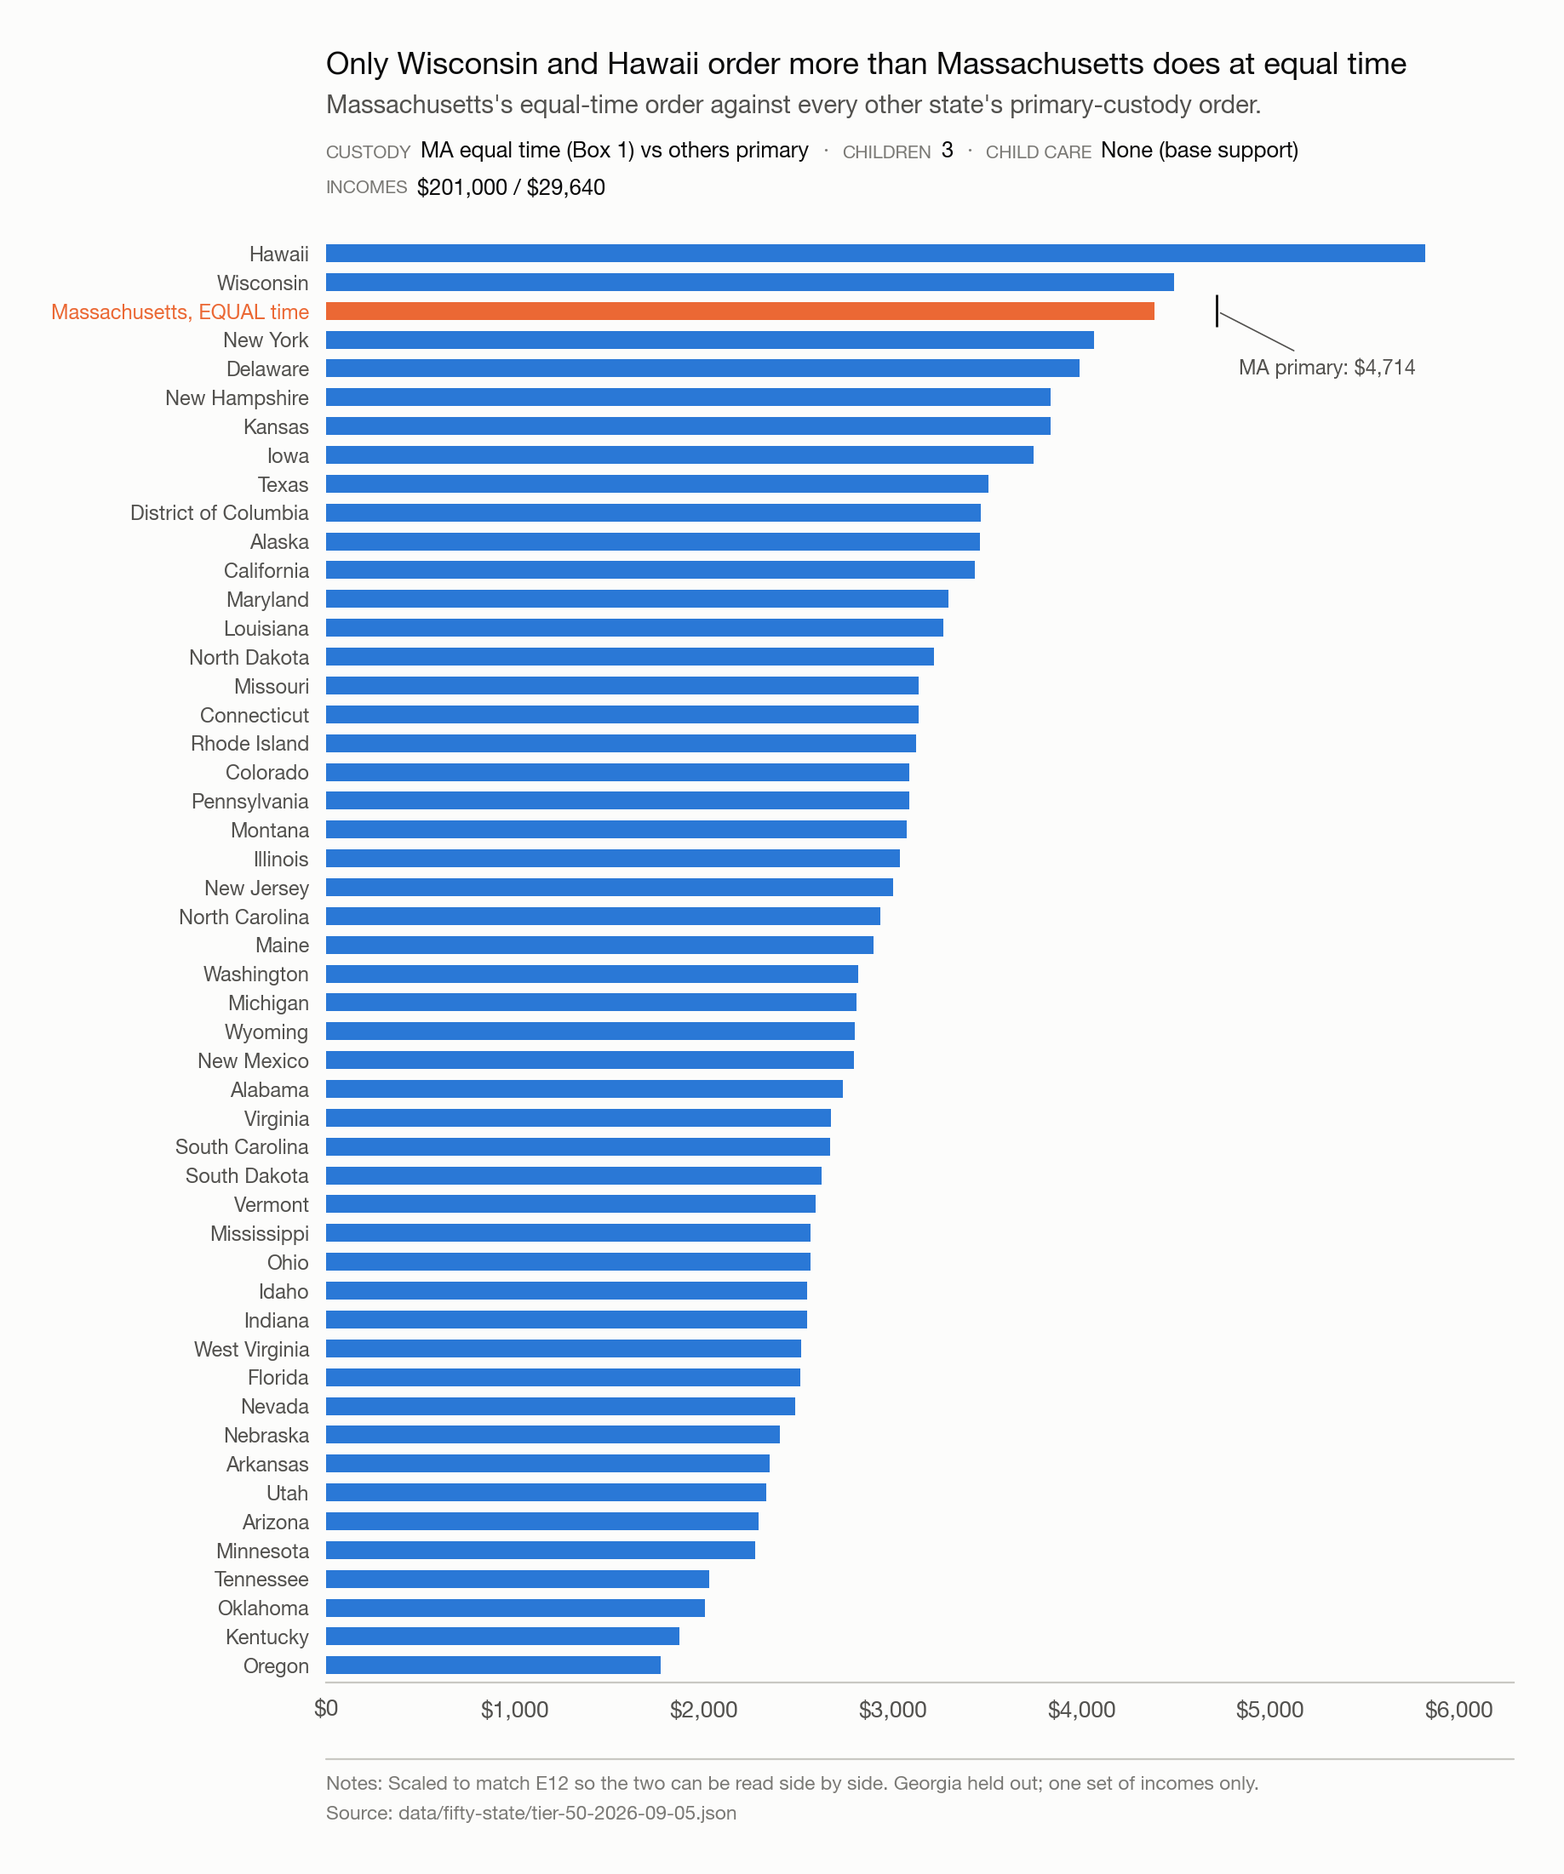
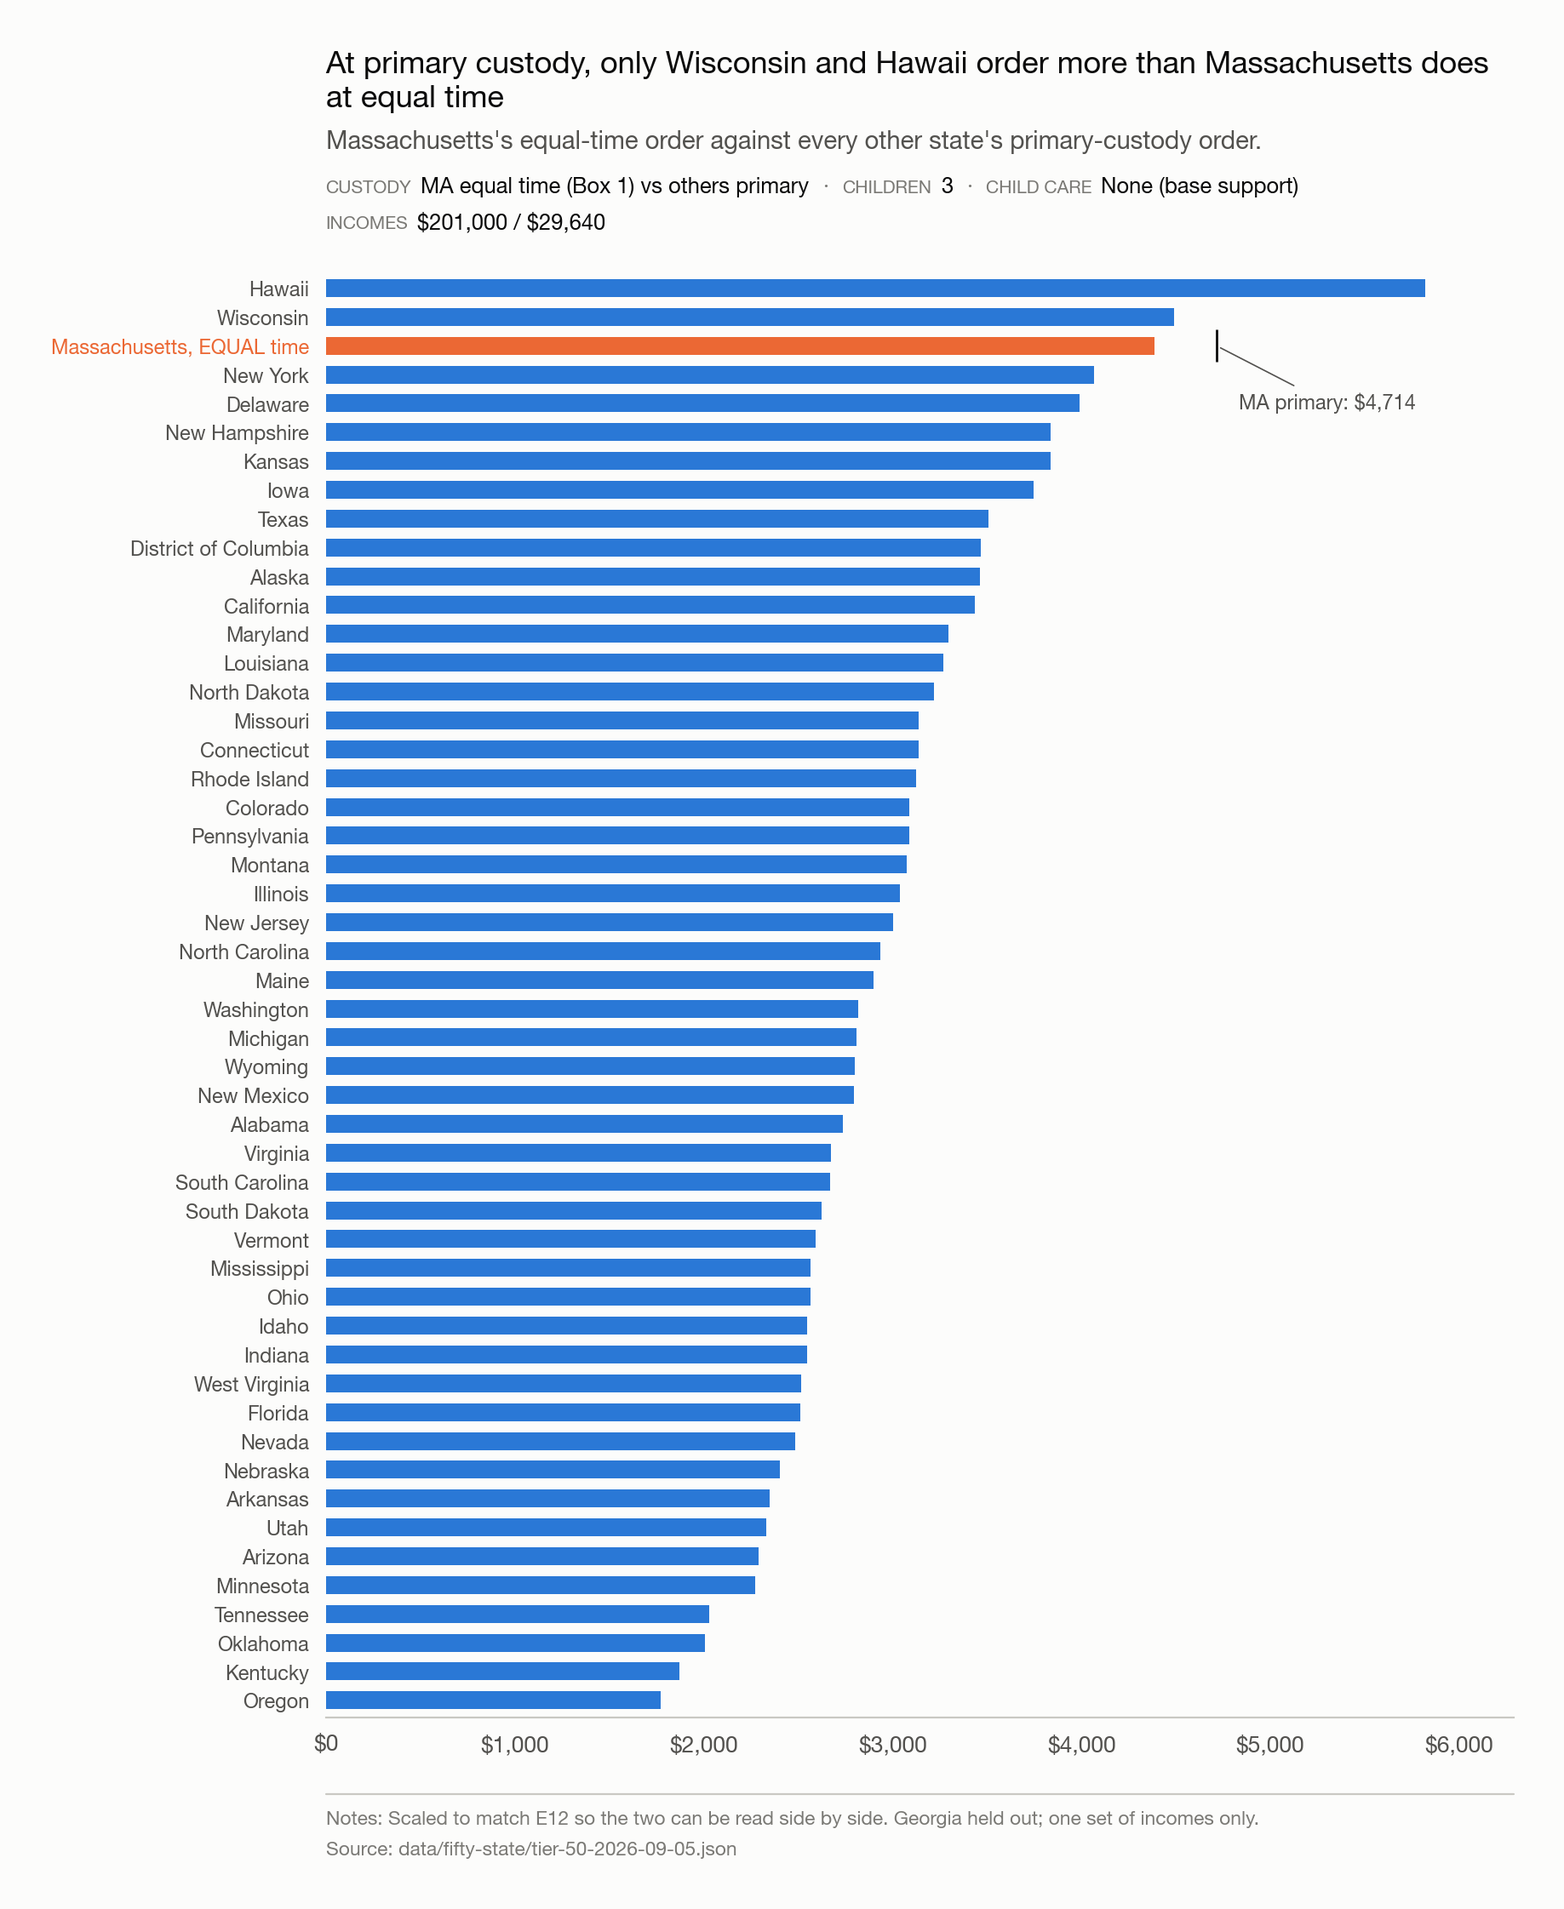
Cold-read fixes: E17 title, E08 line order, state count wording, median sentence, limits

Changed region(s): [[0.031, 0.0309, 0.9309, 0.9882], [0.8998, 0.8955, 0.9619, 0.9264]]

diff --git a/index.html b/index.html
@@ -301,7 +301,7 @@ scripts:
          id="e17"
          img="/figures/exhibits/E17-ma-equal-time-vs-others-primary-custody.png"
          alt="Horizontal bar chart of Massachusetts's equal-time order against 49 other jurisdictions' primary-custody orders, with Massachusetts's own primary-custody order marked for scale."
-         title="Only Wisconsin and Hawaii order more than Massachusetts does at equal time."
+         title="At primary custody, only Wisconsin and Hawaii order more than Massachusetts does at equal time."
          deck="Monthly order: Massachusetts under Box 1 (children half the time each) against every other jurisdiction with the children primarily with the lower earner."
          notes="Only Hawaii and Wisconsin order more at primary custody than Massachusetts does at equal time; Massachusetts's own primary-custody order, $4,714, is marked for scale and is not part of the ranked comparison."
          source_script="model/charts/fig10_ma_shared_vs_primary.py"

diff --git a/model/charts/fig10_ma_shared_vs_primary.py b/model/charts/fig10_ma_shared_vs_primary.py
@@ -42,7 +42,7 @@ def main():
     ax.annotate(f"MA primary: ${ma['s2']:,.0f}", xy=(ma["s2"], yi), xytext=(ma["s2"] + 120, yi - 2.2),
                 fontsize=8.5, color=P["text_2"], arrowprops=dict(arrowstyle="-", color=P["text_2"], lw=0.6))
     joined_above = " and ".join(above) if len(above) <= 2 else ", ".join(above[:-1]) + f", and {above[-1]}"
-    theme.finish(ax, title=f"Only {joined_above} order more than Massachusetts does at equal time" if above
+    theme.finish(ax, title=f"At primary custody, only {joined_above} order more than Massachusetts does at equal time" if above
                  else "Massachusetts orders more than every other state does at equal time",
                  subtitle="Massachusetts's equal-time order against every other state's primary-custody order.",
                  comma=False,

diff --git a/model/charts/fig3_credit.py b/model/charts/fig3_credit.py
@@ -29,7 +29,7 @@ def main():
     fig, axs = plt.subplots(1, 2, figsize=(15, 6.3))
     fig.subplots_adjust(wspace=0.22, top=0.68, bottom=0.28)
     ax = axs[0]
-    ax.plot(x, [r[6] for r in rows], color=P["series"][3], lw=2.2, label="Worksheet today (Box 1 vs Box 2)")
+    ax.plot(x, [r[6] for r in rows], color=P["series"][3], lw=2.2, label="Worksheet today (Box 1 vs Box 2)", zorder=5)
     ax.plot(x, [r[7] for r in rows], color=P["series"][0], lw=2.2, label="Fix A: apply the credit's limit once, not twice")
     ax.plot(x, [r[8] for r in rows], color=P["series"][2], lw=2.2, label="Fix B: the cross-credit formula 18 states and DC use")
     ax.set_title("(a) Reduction in the order for equal time", loc="left", fontsize=10.5)

diff --git a/model/charts/exhibits.py b/model/charts/exhibits.py
@@ -172,7 +172,7 @@ def main():
     x = [r["payor_3c"] for r in r3]
 
     fig, ax = theme.figure(9.5, 5.2)
-    ax.plot(x, [r["reduction_current"] for r in r3], color=P["series"][3], lw=2.2, label="Worksheet today (Box 1 vs Box 2)")
+    ax.plot(x, [r["reduction_current"] for r in r3], color=P["series"][3], lw=2.2, label="Worksheet today (Box 1 vs Box 2)", zorder=5)
     ax.plot(x, [r["reduction_A"] for r in r3], color=P["series"][0], lw=2.2, label="Fix A: apply the credit's limit once, not twice")
     ax.plot(x, [r["reduction_B"] for r in r3], color=P["series"][2], lw=2.2, label="Fix B: the cross-credit formula 18 states and DC use")
     ax.set_xlim(0.5, 1.0); ax.set_ylim(0, 1)

diff --git a/recommendations/index.md b/recommendations/index.md
@@ -11,10 +11,10 @@ description: >-
 
 While federal law requires every order to rest on the parent's ability to pay, it sets no cap on
 the order and does not require a worksheet to test it against what a parent keeps. The first
-section below asks Washington to close that gap for every state. The five sections after it are specific to the Massachusetts Worksheet: each names
+section below asks the federal government to close that gap for every state. The five sections after it are specific to the Massachusetts Worksheet: each names
 the line it would change and what that change does to the order at the worked example throughout
-this site, a payor at $201,000 a year, the other parent at $29,640, three children. Open a row to
-read the case for it.
+this site, a payor at $201,000 a year, the other parent at $29,640, three children. Each row's summary names its own case: equal time with no child care, equal
+time with $300 a week of child care, or primary custody. Open a row to read the case for it.
 
 <p class="kind-legend" markdown="1">
 Each proposal below carries one of three labels. **A correction** means the Worksheet applies two
@@ -268,8 +268,7 @@ version prices Massachusetts below both comparison states instead of in line wit
 "Against the median / WA / CA" states how far the candidate's monthly figure sits above or below
 the fifty-jurisdiction median ($2,172.95), Washington's equal-time order ($2,819.56), and
 California's equal-time order ($2,424.32). Today's Box 1 order's own distance from Washington and
-California isn't printed by the model; its distance from the median (102.0 percent) is. Reaching
-the median exactly would take a 50.5 percent cut to today's order, down to $511.27 a week.
+California isn't printed by the model; its distance from the median (102.0 percent) is. Reaching the median exactly would take $511.27 a week off today's order, a 50.5 percent cut.
 
 Research on custody decided mainly by a financial incentive finds children can fare worse under it
 (Fernández-Kranz, Roff and Sun, *Journal of Economic Behavior & Organization* 189 (2021)), an argument against pricing parenting time by formula in
@@ -295,7 +294,7 @@ which is the scale this recommendation is measured against.
    id="e17"
    img="/figures/exhibits/E17-ma-equal-time-vs-others-primary-custody.png"
    alt="Horizontal bar chart of Massachusetts's equal-time order against 49 other jurisdictions' primary-custody orders, with Massachusetts's own primary-custody order marked for scale."
-   title="Only Wisconsin and Hawaii order more than Massachusetts does at equal time."
+   title="At primary custody, only Wisconsin and Hawaii order more than Massachusetts does at equal time."
    deck="Monthly order: Massachusetts under Box 1 (children half the time each) against every other jurisdiction with the children primarily with the lower earner."
    notes="Only Hawaii and Wisconsin order more at primary custody than Massachusetts does at equal time. Massachusetts's own primary-custody order, $4,714, is marked for scale and isn't part of the ranked comparison. One worked example; Georgia held out."
    source_script="model/charts/fig10_ma_shared_vs_primary.py"

diff --git a/exhibits/index.md b/exhibits/index.md
@@ -53,7 +53,7 @@ comparison always carries its per-person counterpart.
 23. [With the lower earner primary, only Hawaii orders more than Massachusetts.](#e12)
 24. [In Massachusetts and 22 other states, having the children a third of the time lowers the order by nothing.](#e13)
 25. [Massachusetts's presumptive formula runs to $450,000; 12 schedules run higher, 28 stop lower.](#e16)
-26. [Only Wisconsin and Hawaii order more than Massachusetts does at equal time.](#e17)
+26. [At primary custody, only Wisconsin and Hawaii order more than Massachusetts does at equal time.](#e17)
 27. [Every place that costs more to live in than Massachusetts orders less at equal time.](#e32)
 28. [Massachusetts orders the most at equal time, and it is not the most expensive place to live.](#e33)
 29. [Five reviews have taken up gross versus net. None changed it.](#e27)
@@ -911,7 +911,7 @@ argument.</p>
 
 <figure class="exhibit" id="e17">
   <a class="lightbox-trigger" data-lightbox href="/figures/exhibits/E17-ma-equal-time-vs-others-primary-custody.png"
-     data-caption="Only Wisconsin and Hawaii order more than Massachusetts does at equal time."
+     data-caption="At primary custody, only Wisconsin and Hawaii order more than Massachusetts does at equal time."
      data-csv-href="/figures/working/fig10_ma_shared_vs_primary.csv" data-csv-label="Data (CSV)">
   <img src="/figures/exhibits/E17-ma-equal-time-vs-others-primary-custody.png"
          loading="lazy"
@@ -919,7 +919,7 @@ argument.</p>
   </a>
   <figcaption>
     <p class="confidence-tag">Tiered: a single set of incomes; see method</p>
-    <h3 class="exhibit-title">Only Wisconsin and Hawaii order more than Massachusetts does at equal time.</h3>
+    <h3 class="exhibit-title">At primary custody, only Wisconsin and Hawaii order more than Massachusetts does at equal time.</h3>
     <p class="exhibit-deck">Monthly order: Massachusetts under Box 1 (children half the time each) against every other jurisdiction with the children primarily with the lower earner.</p>
     <dl class="exhibit-facts">
       <div><dt>Custody</dt><dd>MA equal time (Box 1) vs others primary</dd></div>

diff --git a/findings/shared-parenting-formula/index.md b/findings/shared-parenting-formula/index.md
@@ -1,6 +1,6 @@
 ---
 layout: finding
-title: Most states price joint custody with one formula, and Massachusetts does not use it
+title: More states price joint custody with the cross-credit than with any other formula, and Massachusetts does not use it
 permalink: /findings/shared-parenting-formula/
 description: >-
   Eighteen states and the District of Columbia price joint custody with the cross-credit
@@ -35,7 +35,7 @@ sections:
 <section class="hero" markdown="1">
 <p class="eyebrow">Shared parenting</p>
 
-# Most states price joint custody with one formula, and Massachusetts does not use it
+# More states price joint custody with the cross-credit than with any other formula, and Massachusetts does not use it
 
 <p class="lede">While 18 states and the District of Columbia price joint custody with the cross-credit formula, which credits
 each parent for the time they house the children, Massachusetts has no parenting-time term at all.
@@ -96,9 +96,8 @@ and splits the time equally. Every figure is weekly.
 That order is 26.1% of the payor's ability to pay, meaning take-home pay less any child care he
 pays himself. Where each parent pays $300 a week of child care, the $600 should be split on what each household
 has after tax and after the order. The higher earner then carries 62.8% of it, and the order rises
-to $778 a week, 32.6% of ability to pay. The Massachusetts Worksheet would instead make it $927,
-because it charges the higher earner 87.7% of the other parent's child care and credits him 12.3% of
-his own.
+to $778 a week, 32.6% of ability to pay. Split the child care the Worksheet's way instead, charging the higher earner 87.7% of the other
+parent's child care and crediting him 12.3% of his own, and the same cross-credit order would be $927.
 
 </section>
 

diff --git a/findings/fifty-one-jurisdictions/index.md b/findings/fifty-one-jurisdictions/index.md
@@ -443,7 +443,7 @@ at equal time and at primary custody.
 
 <figure class="exhibit" id="e17">
   <a class="lightbox-trigger" data-lightbox href="/figures/exhibits/E17-ma-equal-time-vs-others-primary-custody.png"
-     data-caption="Only Wisconsin and Hawaii order more than Massachusetts does at equal time."
+     data-caption="At primary custody, only Wisconsin and Hawaii order more than Massachusetts does at equal time."
      data-csv-href="/figures/working/fig10_ma_shared_vs_primary.csv" data-csv-label="Data (CSV)">
   <img src="/figures/exhibits/E17-ma-equal-time-vs-others-primary-custody.png"
          width="1852" height="2264"
@@ -451,7 +451,7 @@ at equal time and at primary custody.
          alt="Bar chart of monthly child support orders in fifty jurisdictions, forty-nine computed with the children primarily with the lower earner and Massachusetts computed twice: once under equal parenting time and once under primary custody for scale.">
   </a>
   <figcaption>
-    <h3 class="exhibit-title">Only Wisconsin and Hawaii order more than Massachusetts does at equal time.</h3>
+    <h3 class="exhibit-title">At primary custody, only Wisconsin and Hawaii order more than Massachusetts does at equal time.</h3>
     <p class="exhibit-deck">The same worked example as the two rankings above, with Massachusetts computed under Box 1 and every other jurisdiction computed with the children primarily with the lower earner.</p>
     <p class="exhibit-notes">Massachusetts's own primary-custody order, $4,714, is marked for scale and isn't part of the ranked comparison.</p>
     <p class="exhibit-source">Source: <code>model/charts/fig10_ma_shared_vs_primary.py</code> ·

diff --git a/findings/index.md b/findings/index.md
@@ -117,7 +117,7 @@ at primary custody.
       id="e17"
    img="/figures/exhibits/E17-ma-equal-time-vs-others-primary-custody.png"
    alt="Bar chart of Massachusetts's equal-time order against 49 other jurisdictions' primary-custody orders, Massachusetts highlighted, its own primary-custody order marked for scale."
-   title="Only Wisconsin and Hawaii order more than Massachusetts does at equal time."
+   title="At primary custody, only Wisconsin and Hawaii order more than Massachusetts does at equal time."
    deck="Monthly order: Massachusetts at equal time against every other state with the children primarily with the lower earner. Georgia held out."
    notes="Fifty of fifty-one jurisdictions survived every verification stage; Georgia is held out because its enacted formula produces a lower order under primary custody than under equal time, which the state's own calculator reproduces. Each row was profiled from primary sources, computed twice blind, reconciled, and attacked. Own premiums ($43/$33) as each state treats them. One worked example; the ranking generalizes to nothing else."
       source_script="model/charts/fig10_ma_shared_vs_primary.py"

diff --git a/findings/parenting-time/index.md b/findings/parenting-time/index.md
@@ -237,8 +237,8 @@ driving the parenting plan.
 <p class="caveat">Every figure on this page comes from one worked example: three children, equal
 parenting time, no child care claimed, at the incomes stated. The mechanism, Box 1's discount
 equalling the payor's own capped Line 6e, is a property of the form itself and does not depend on
-the worked example; the specific dollar amounts and percentages do. This page says nothing about Box
-2, about primary custody, or about any arrangement other than equal time.</p>
+the worked example; the specific dollar amounts and percentages do. The primary-custody order appears only as the baseline the equal-time discount is measured
+from.</p>
 
 <p class="caveat">Per person, the standing caveat applies here too: nothing on this page compares
 what the payor keeps for himself against what each member of the recipient's household holds. See

diff --git a/sitemap/index.md b/sitemap/index.md
@@ -20,7 +20,7 @@ description: Every page here, with a one-line purpose for each.
     <span class="doc-context">Every place that costs more to live in than Massachusetts orders less
       at equal parenting time.</span></li>
   <li class="doc-item"><span class="doc-title"><a href="/findings/shared-parenting-formula/">Shared-parenting formula</a></span>
-    <span class="doc-context">Most states price joint custody with the cross-credit formula, and
+    <span class="doc-context">More states price joint custody with the cross-credit than with any other formula, and
       Massachusetts does not use it.</span></li>
   <li class="doc-item"><span class="doc-title"><a href="/findings/fifty-one-jurisdictions/">Fifty-one jurisdictions</a></span>
     <span class="doc-context">The same family's order under every state's guidelines, with

diff --git a/findings/hardship-test.md b/findings/hardship-test.md
@@ -137,8 +137,8 @@ week. (Source: `model/runs/submission-figures-run-2026-09-09.txt`, printed by
 
 ## This is one worked example, and per person the payor still holds more almost everywhere
 
-<p class="caveat">The presumption does eventually fire, 17 points late, at $1,290 a week for three
-children, the statutory ceiling on allowable child care and not a typical claim. This is one
+<p class="caveat">The presumption does eventually fire, 17 points late, once claimed child care reaches $589 a
+week for three children. The Guidelines allow up to $1,290, and a claim that size is not typical. This is one
 worked example, and how often actual claims sit near that benchmark is not known from anything in
 this repository.</p>
 
